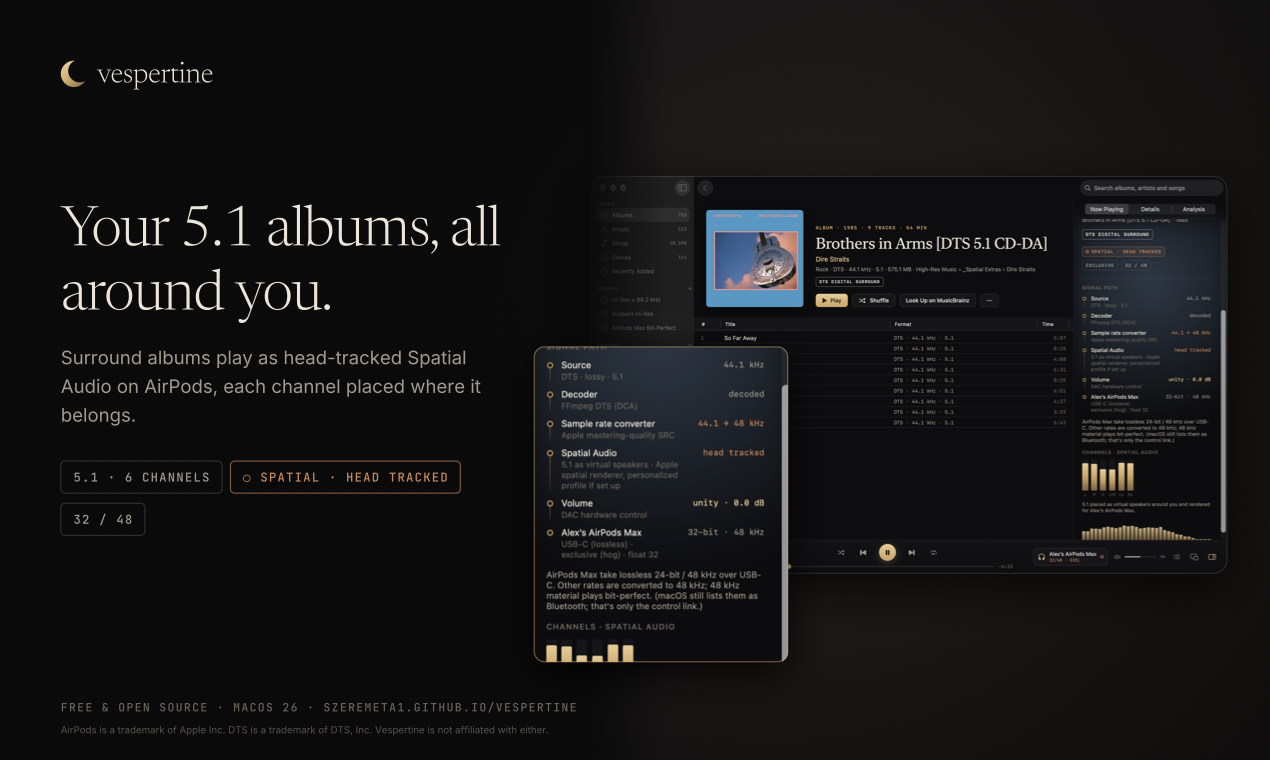
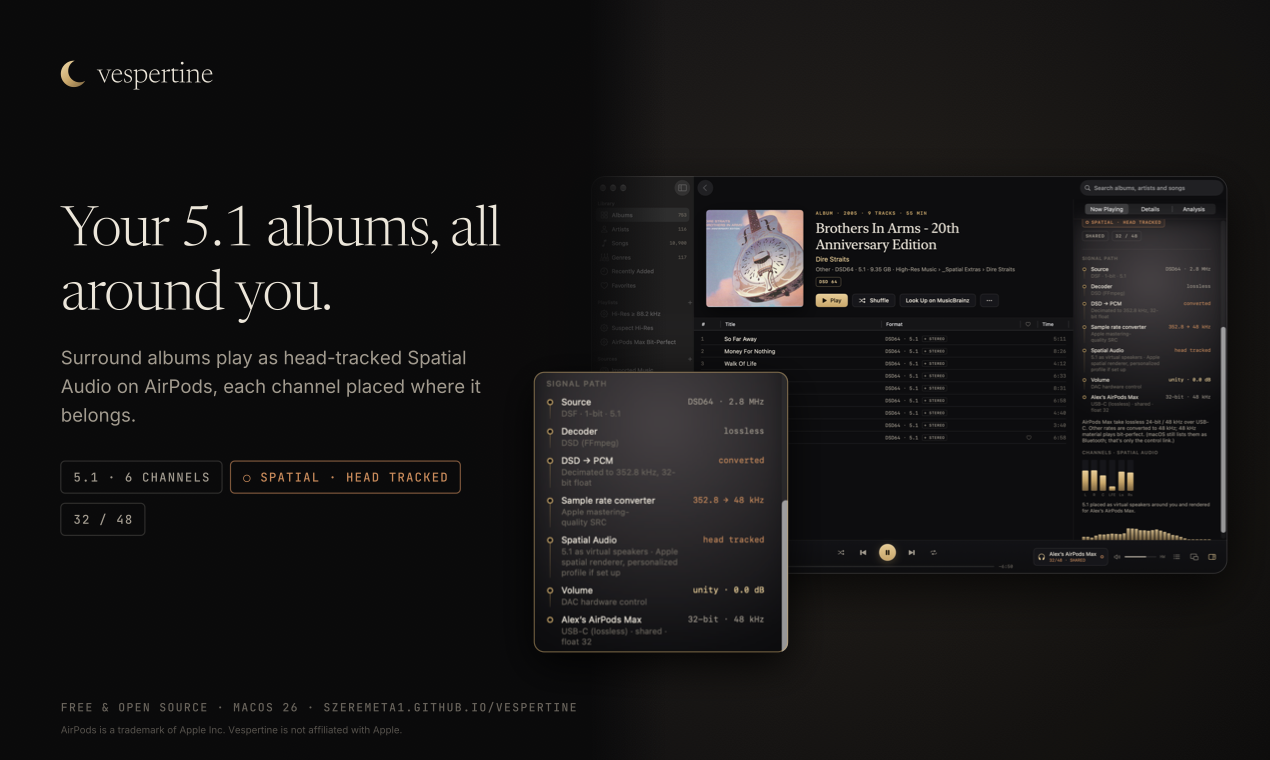
Screenshots: the three AirPods Max shots retaken with Oasis, Brothers in Arms and Dark Side of the Moon
With the AirPods Max connected over USB-C, the last three screenshots are retaken on 0.6.3:

- Smart playlist: "AirPods Max Bit-Perfect" narrowed (in the isolated library copy) to Oasis, 24-bit / 48 kHz,
  with Wonderwall from the 24-bit remaster playing bit-perfect at 32/48. The playlist sorts by artist, so
  the rule is narrowed to put an Oasis track on screen; the alt text says so.
- Spatial Audio: Brothers in Arms (20th Anniversary Edition SACD, DSD64 5.1) rendered head-tracked, with
  the DSD to PCM, sample-rate-converter and Spatial Audio stages and a meter for each of the six channels.
  The old shot was a DTS CD of the same album; that DTS edition is no longer in the library, so captions
  now say 5.1 SACD.
- Stereo and surround versions: Dark Side of the Moon, each song listed once as DSD64 5.1 with "+ STEREO",
  playing as Spatial Audio.

All three show SHARED rather than EXCLUSIVE because the maintainer's own Vespertine was holding the AirPods
exclusively while they were taken; they are still bit-perfect where that applies and honest about the mode.

The tour GIF, key art (the callout crops are trimmed so no row or footnote is cut), site detail crops
(recovered exactly from the old geometry), press thumbnails and social cards are regenerated. The DTS
trademark line is dropped from the Spatial key art because no DTS format is shown any more.

diff --git a/scripts/brand/keyart/main.swift b/scripts/brand/keyart/main.swift
@@ -22,12 +22,12 @@ let features = [
     Feature(id: "stereo-and-surround", shot: "stereo-and-surround-versions",
             headline: "Stereo or surround, on its own.",
             sub: "When an album comes in both, Vespertine plays the version your output can carry: 5.1 for surround and Spatial Audio, stereo for a stereo DAC.",
-            chips: [("DSD64 · 5.1", .plain), ("+ STEREO", .plain), ("○ SPATIAL · HEAD TRACKED", .copper)], focus: CGRect(x: 370, y: 575, width: 1100, height: 420)),
+            chips: [("DSD64 · 5.1", .plain), ("+ STEREO", .plain), ("○ SPATIAL · HEAD TRACKED", .copper)], focus: CGRect(x: 370, y: 575, width: 1100, height: 390)),
     Feature(id: "spatial-audio", shot: "spatial-audio-airpods-max",
             headline: "Your 5.1 albums, all around you.",
             sub: "Surround albums play as head-tracked Spatial Audio on AirPods, each channel placed where it belongs.",
-            chips: [("5.1 · 6 CHANNELS", .plain), ("○ SPATIAL · HEAD TRACKED", .copper), ("32 / 48", .plain)], focus: CGRect(x: 1826, y: 420, width: 564, height: 700),
-            trademarks: "AirPods is a trademark of Apple Inc. DTS is a trademark of DTS, Inc. Vespertine is not affiliated with either."),
+            chips: [("5.1 · 6 CHANNELS", .plain), ("○ SPATIAL · HEAD TRACKED", .copper), ("32 / 48", .plain)], focus: CGRect(x: 1826, y: 284, width: 564, height: 622),
+            trademarks: "AirPods is a trademark of Apple Inc. Vespertine is not affiliated with Apple."),
     Feature(id: "native-dsd", shot: "dsd-native-dop",
             headline: "Native DSD, not a conversion.",
             sub: "DSD64 to DSD512 goes to DACs that accept it as DoP, bit for bit, and is converted only for those that don’t.",

diff --git a/site/index.html b/site/index.html
@@ -183,7 +183,7 @@
             <li><b>Export for Spatial Audio</b> as binaural stereo or multichannel ALAC.</li>
           </ul>
         </div>
-        <img class="shot" src="assets/spatial-audio-airpods-max-detail.jpg" alt="Dire Straits' Brothers in Arms from a DTS 5.1 CD, rendered as head-tracked Spatial Audio on AirPods Max, with a meter for each channel" loading="lazy" width="1260" height="1140">
+        <img class="shot" src="assets/spatial-audio-airpods-max-detail.jpg" alt="Dire Straits' Brothers in Arms (20th Anniversary SACD, DSD64 5.1) rendered as head-tracked Spatial Audio on AirPods Max, with a meter for each channel" loading="lazy" width="1260" height="1140">
       </div>
 
       <div class="feature flip">
@@ -192,7 +192,7 @@
           <h3>Lossless on AirPods Max, and it says so.</h3>
           <p>Connected with the USB-C cable, AirPods Max are recognised as a 24-bit / 48 kHz lossless device: 48 kHz music plays bit-perfect and everything else is converted with Apple's mastering-quality resampler, in plain view. Over Bluetooth, Vespertine tells you the link is AAC.</p>
         </div>
-        <img class="shot" src="assets/smart-playlist-detail.jpg" alt="A smart playlist of every 24-bit / 48 kHz track playing bit-perfect on AirPods Max over USB-C" loading="lazy" width="1300" height="1100">
+        <img class="shot" src="assets/smart-playlist-detail.jpg" alt="A smart playlist of 24-bit / 48 kHz tracks, narrowed to Oasis, playing bit-perfect on AirPods Max over USB-C" loading="lazy" width="1300" height="1100">
       </div>
 
       <div class="feature">

diff --git a/site/press.html b/site/press.html
@@ -133,8 +133,8 @@
           <figcaption>An SACD with stereo and 5.1 versions</figcaption>
         </figure>
         <figure>
-          <a href="https://raw.githubusercontent.com/szeremeta1/Vespertine/main/docs/screenshots/spatial-audio-airpods-max.png"><img src="assets/press/shot-spatial-audio-airpods-max.jpg" alt="A DTS 5.1 CD as Spatial Audio on AirPods Max" loading="lazy" width="720" height="450"></a>
-          <figcaption>A DTS 5.1 CD as Spatial Audio on AirPods Max</figcaption>
+          <a href="https://raw.githubusercontent.com/szeremeta1/Vespertine/main/docs/screenshots/spatial-audio-airpods-max.png"><img src="assets/press/shot-spatial-audio-airpods-max.jpg" alt="A 5.1 SACD as Spatial Audio on AirPods Max" loading="lazy" width="720" height="450"></a>
+          <figcaption>A 5.1 SACD (Brothers in Arms, 20th Anniversary Edition) as Spatial Audio on AirPods Max</figcaption>
         </figure>
         <figure>
           <a href="https://raw.githubusercontent.com/szeremeta1/Vespertine/main/docs/screenshots/fake-hi-res-detection.png"><img src="assets/press/shot-fake-hi-res-detection.jpg" alt="A “hi-res” file with synthetic treble" loading="lazy" width="720" height="450"></a>

diff --git a/scripts/make-tour.swift b/scripts/make-tour.swift
@@ -42,8 +42,8 @@ let shots: [Shot] = [
          to: CGRect(x: 1080, y: 140, width: 1320, height: 825),
          caption: "Stereo and 5.1 listed once; it plays the one your output suits"),
     Shot(file: "docs/screenshots/spatial-audio-airpods-max.png", from: CGRect(x: 600, y: 375, width: 1800, height: 1125),
-         to: CGRect(x: 1380, y: 745, width: 1020, height: 637.5),
-         caption: "A DTS 5.1 CD as head-tracked Spatial Audio on AirPods Max"),
+         to: CGRect(x: 1380, y: 635, width: 1020, height: 637.5),
+         caption: "A 5.1 SACD as head-tracked Spatial Audio on AirPods Max"),
     Shot(file: "docs/screenshots/fake-hi-res-detection.png", from: CGRect(x: 1340, y: 170, width: 1060, height: 662.5),
          to: CGRect(x: 1340, y: 560, width: 1060, height: 662.5),
          caption: "Flags upsampled, lossy-sourced and “AI-enhanced” files"),

diff --git a/README.md b/README.md
@@ -26,7 +26,7 @@
 <br>
 
 <p align="center">
-  <img src="docs/screenshots/tour.gif" width="800" alt="A tour of Vespertine: the Albums page filtered to multichannel; a 24-bit / 192 kHz FLAC playing bit-perfect with its signal path; an SACD album listing stereo and 5.1 versions once; a DTS 5.1 CD as head-tracked Spatial Audio on AirPods Max; and a file flagged for synthetic high frequencies">
+  <img src="docs/screenshots/tour.gif" width="800" alt="A tour of Vespertine: the Albums page filtered to multichannel; a 24-bit / 192 kHz FLAC playing bit-perfect with its signal path; DSD64 over DoP from an SACD; an SACD album listing stereo and 5.1 versions once; a 5.1 SACD as head-tracked Spatial Audio on AirPods Max; and a file flagged for synthetic high frequencies">
 </p>
 
 <p align="center"><sub>Vespertine was called Nocturne until version 0.6.0.</sub></p>
@@ -95,7 +95,7 @@ Artists, albums (by title, artist, genre or year) and songs, in one place. Every
 ### Smart playlists, lossless on AirPods Max
 Rules use the units shown everywhere else (48 kHz, 24-bit), so "every 24-bit / 48 kHz track" is one rule away. AirPods Max on USB-C are recognized as a lossless 24-bit / 48 kHz device, so that playlist plays bit-perfect on them, and the Digital Crown and volume keys still work.
 
-![A smart playlist of every 24-bit / 48 kHz track, with Ariana Grande's eternal sunshine playing bit-perfect on AirPods Max over USB-C](docs/screenshots/smart-playlist.png)
+![A smart playlist of 24-bit / 48 kHz tracks (narrowed to Oasis here), with Wonderwall from the 24-bit remaster playing bit-perfect on AirPods Max over USB-C](docs/screenshots/smart-playlist.png)
 
 ### A mini player that still tells the truth
 
